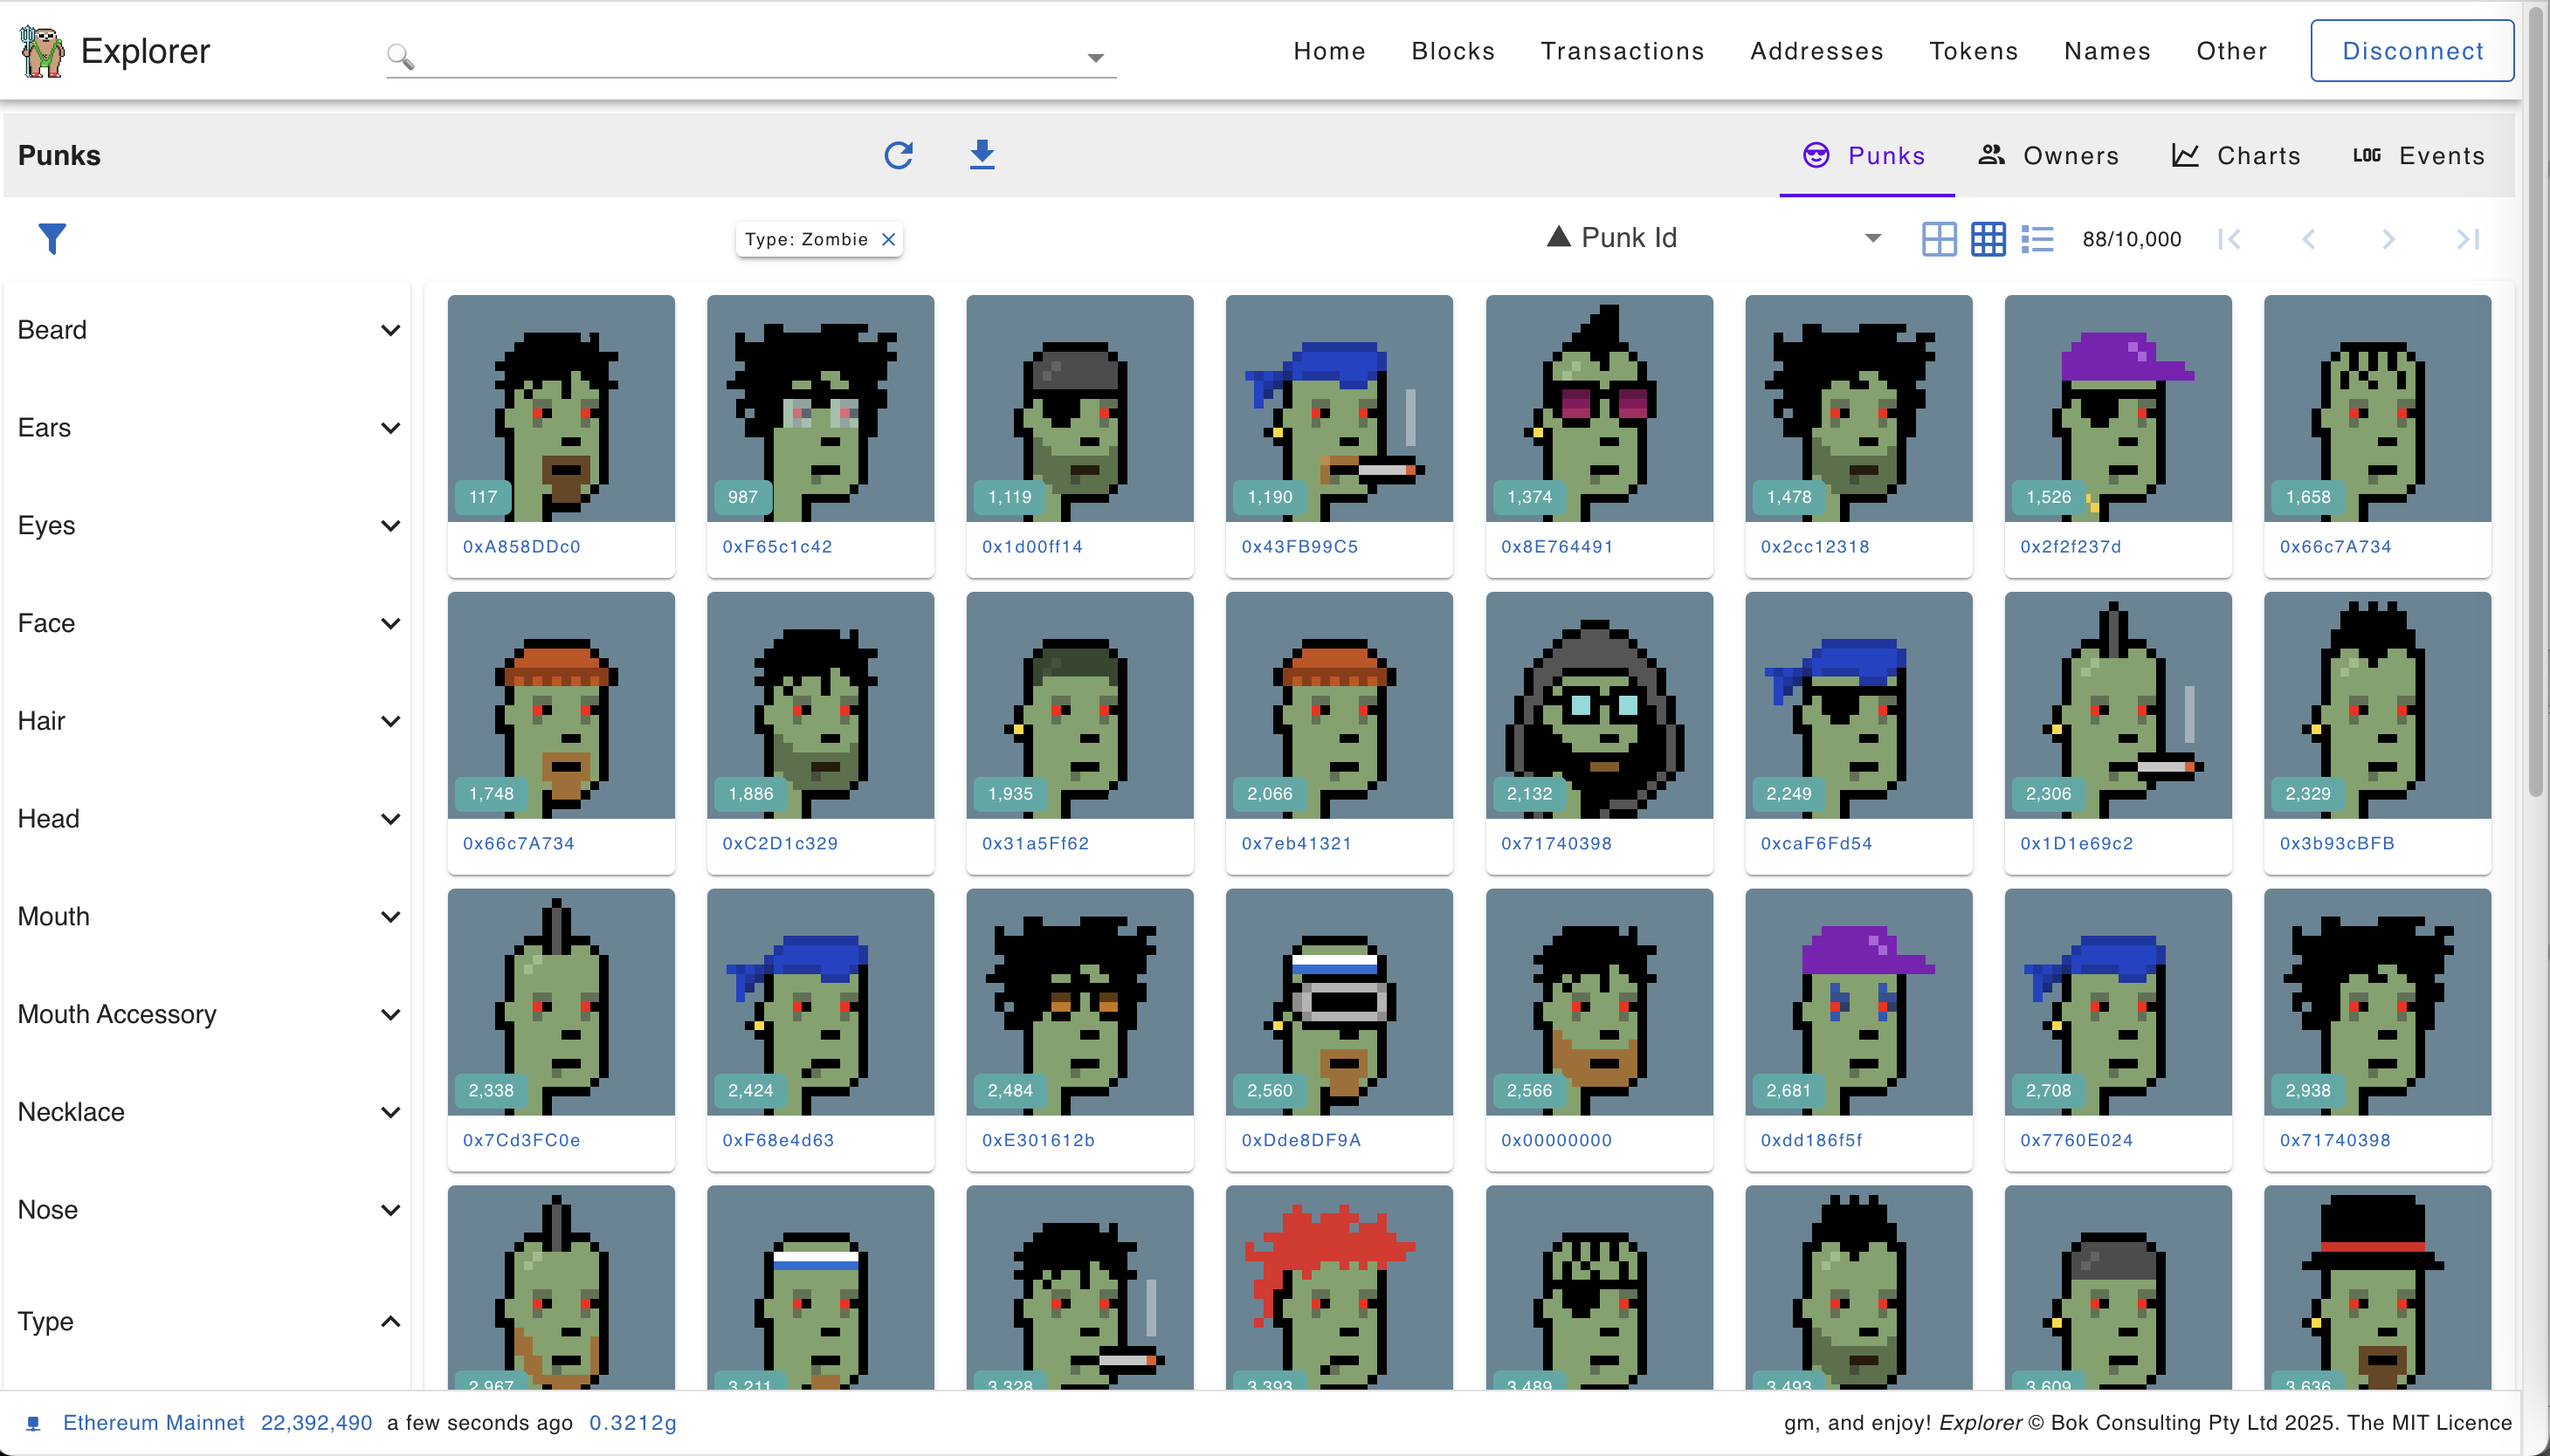
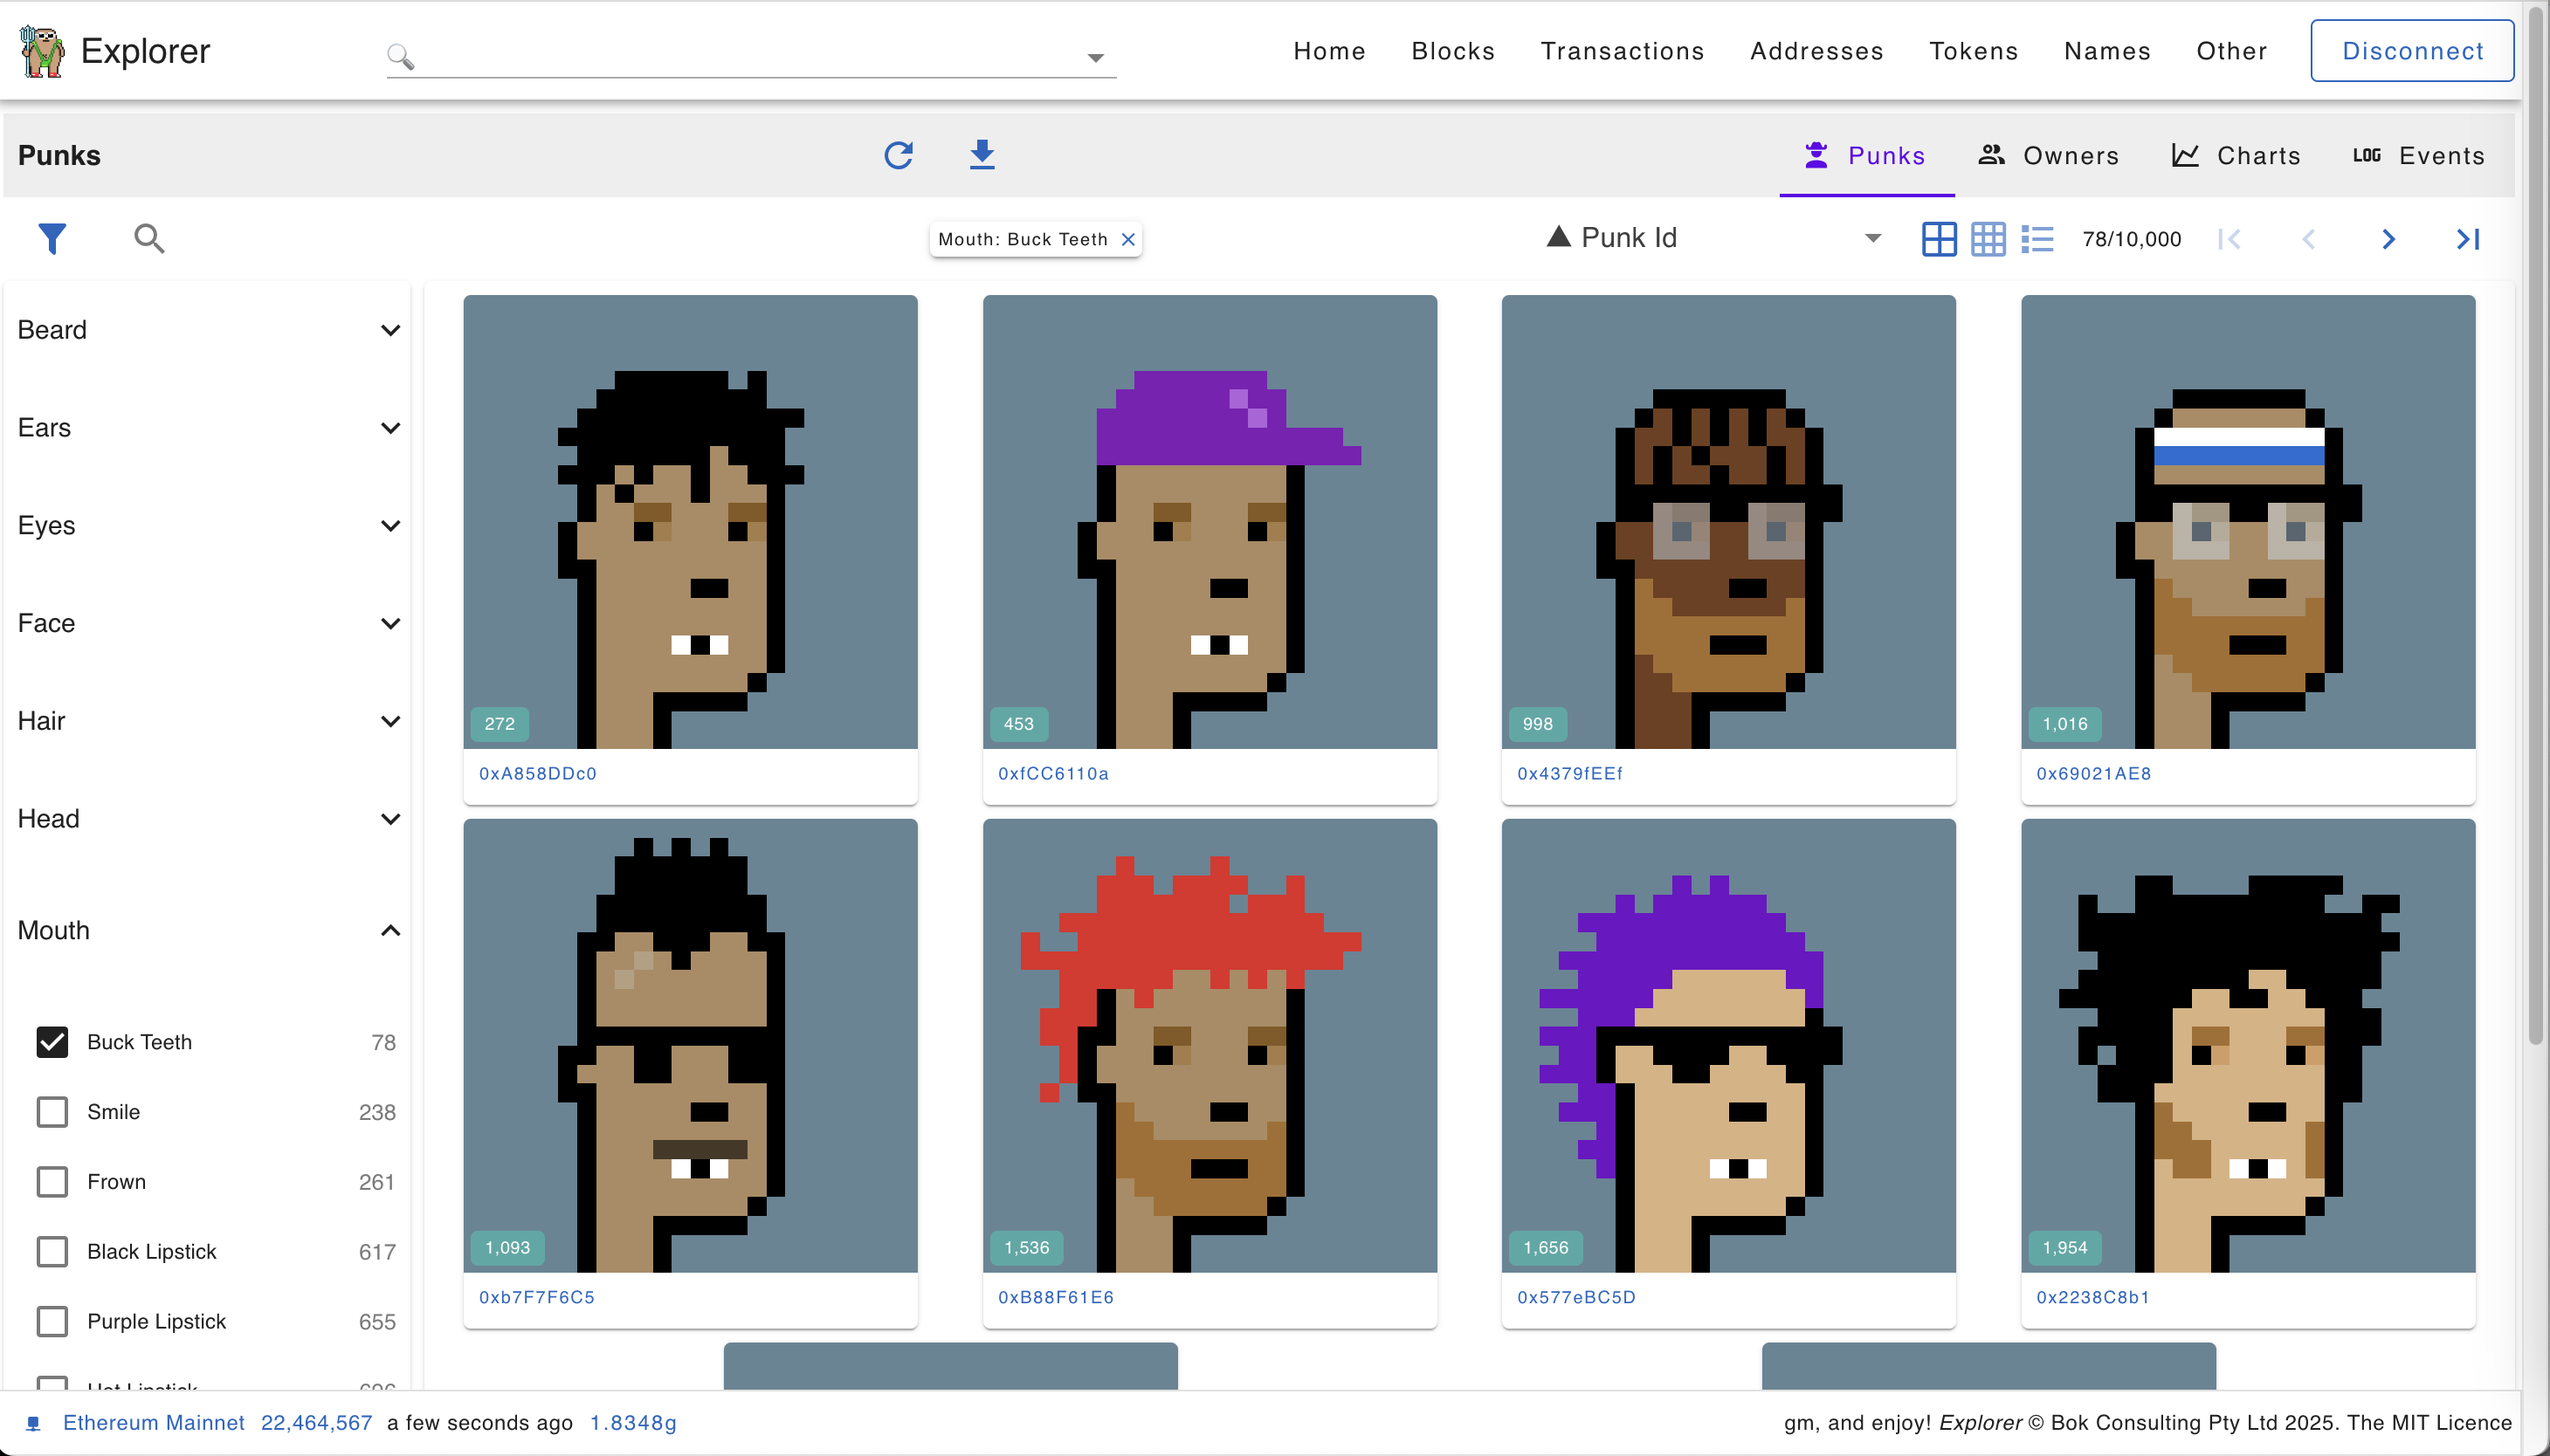
punks screenshots

diff --git a/README.md b/README.md
@@ -106,6 +106,10 @@ After clicking on [Sync Token Metadata]
 
 <kbd><img src="images/SampleScreen33.png" width="800" /></kbd>
 
+<kbd><img src="images/SampleScreen34.png" width="800" /></kbd>
+
+<kbd><img src="images/SampleScreen35.png" width="800" /></kbd>
+
 <br />
 
 ---
